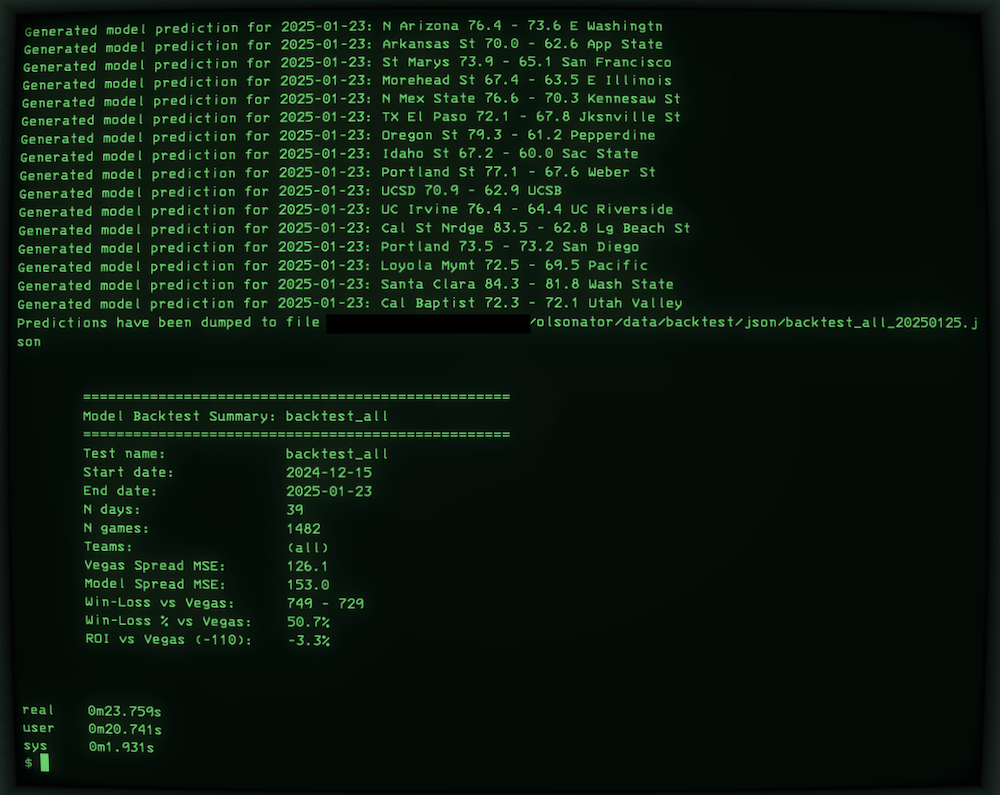
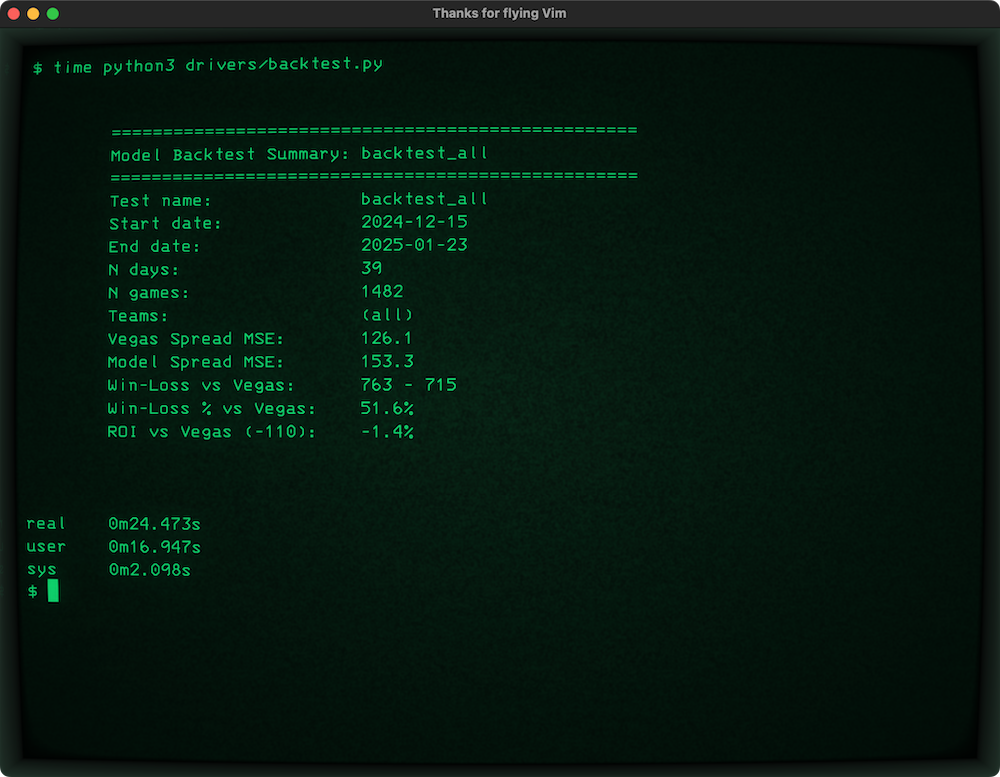
update screenshot

diff --git a/Readme.md b/Readme.md
@@ -18,13 +18,11 @@ baskeball API and obtain schedule and spread odds data.
 
 Here is an example of the output of a backtest. Note that this
 backtest utilizes 39 days and 1,482 games' worth of data,
-and only takes 23 seconds to run (not including one-time processing
+and takes < 30 seconds to run (not including one-time processing
 cost of downloading and extracting schedule data from the web,
 which will be cached on disk for any subsequent run):
 
 ![Backtest output example](img/backtest_example_output.png)
-
-***-3.3% ROI means this model will not make any money... Yay!***
 
 ## Quick Start
 
